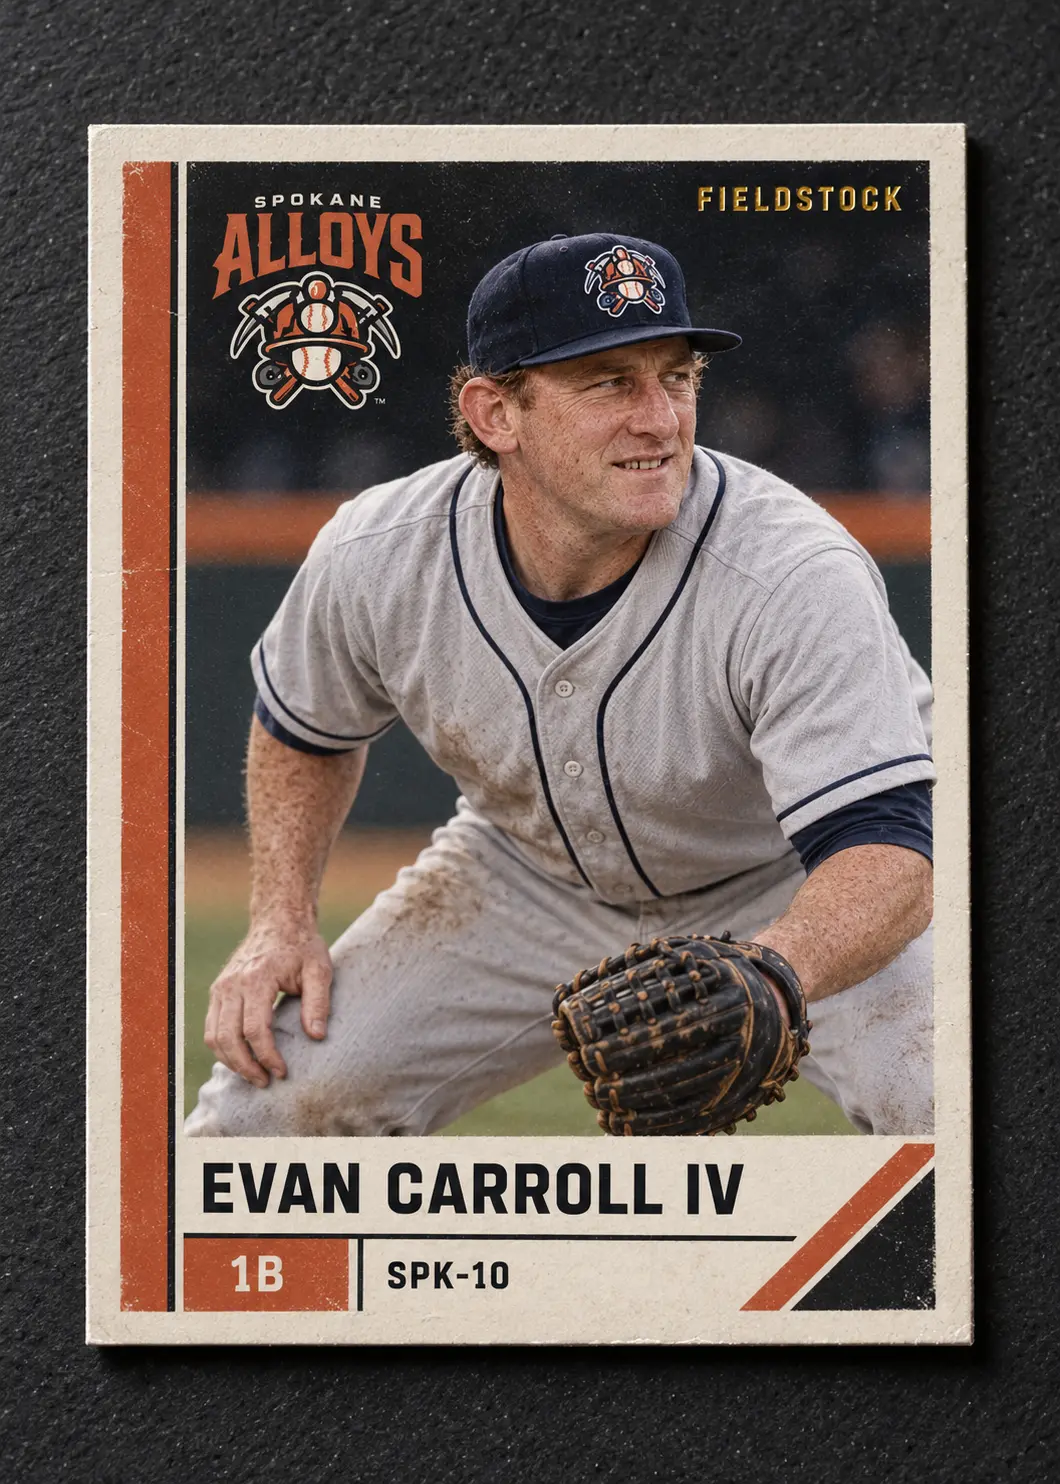
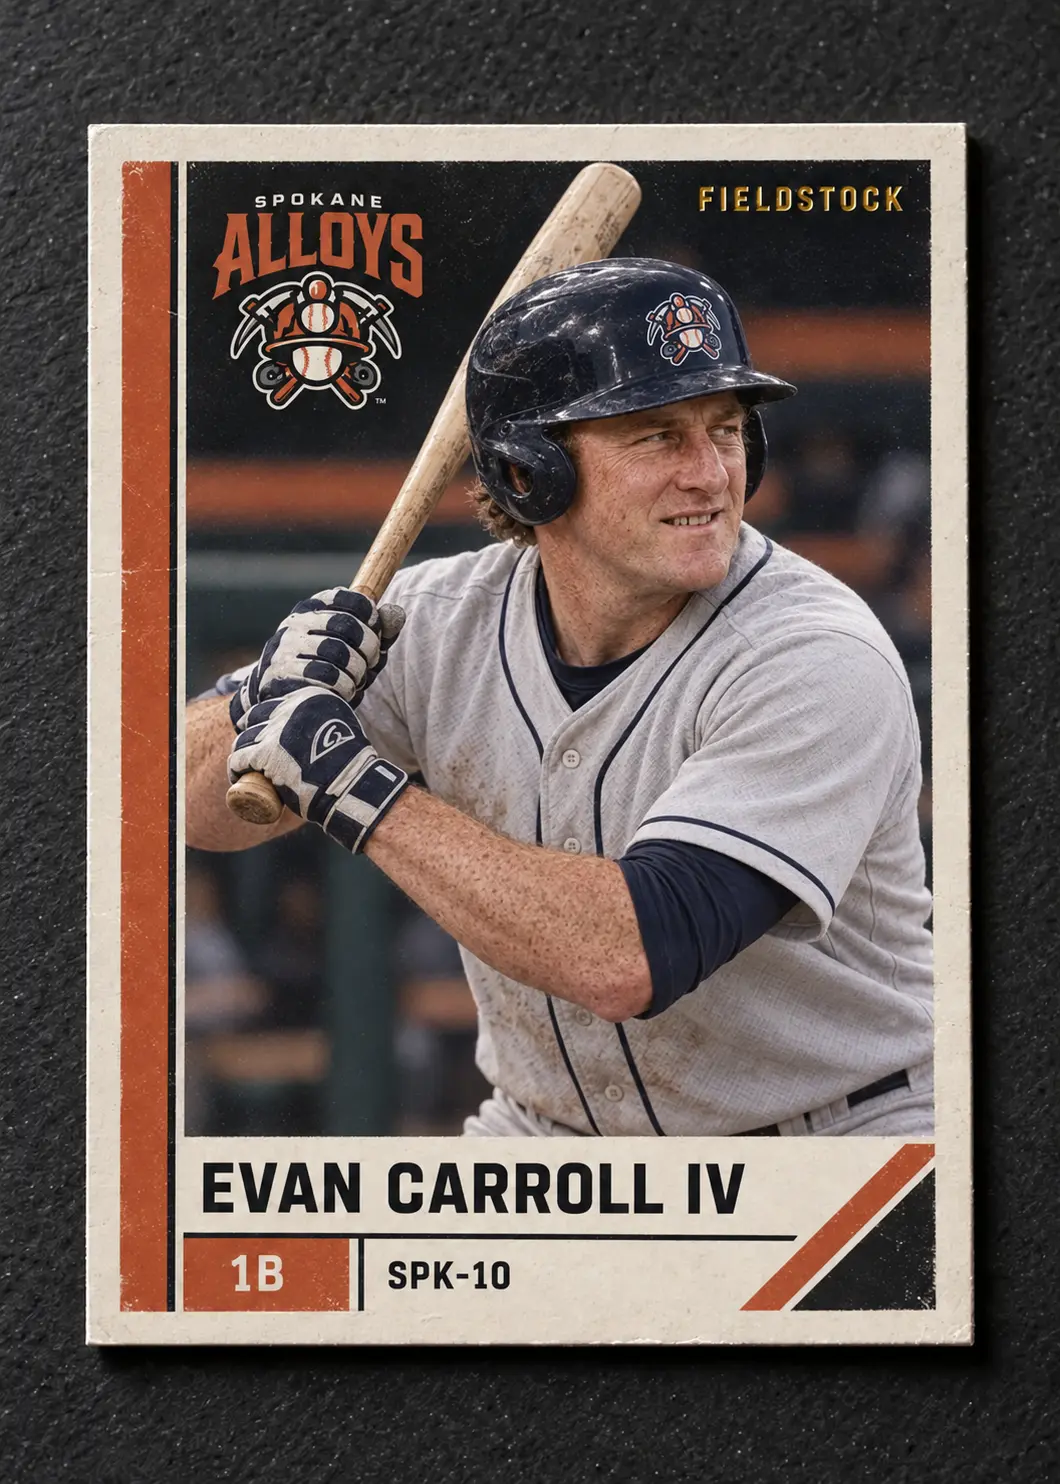
Add Spokane batting cards and 2026 rookies

diff --git a/team-spokane-alloys.html b/team-spokane-alloys.html
@@ -1413,7 +1413,16 @@ const fieldstockCards=[
   {front:"assets/images/cards/fieldstock/spk-13-andres-mireles-front.webp",back:"assets/images/cards/fieldstock/spk-13-andres-mireles-back.webp"},
   {front:"assets/images/cards/fieldstock/spk-14-wyatt-hollander-front.webp",back:"assets/images/cards/fieldstock/spk-14-wyatt-hollander-back.webp"},
   {front:"assets/images/cards/fieldstock/spk-15-luis-quinones-front.webp",back:"assets/images/cards/fieldstock/spk-15-luis-quinones-back.webp"},
-  {front:"assets/images/cards/fieldstock/spk-16-pieter-van-wyk-front.webp",back:"assets/images/cards/fieldstock/spk-16-pieter-van-wyk-back.webp"}
+  {front:"assets/images/cards/fieldstock/spk-16-pieter-van-wyk-front.webp",back:"assets/images/cards/fieldstock/spk-16-pieter-van-wyk-back.webp"},
+  null,
+  null,
+  null,
+  {front:"assets/images/cards/fieldstock/spk-20-dae-hyun-park-front.webp",back:"assets/images/cards/fieldstock/spk-20-dae-hyun-park-back.webp"},
+  null,
+  null,
+  null,
+  null,
+  {front:"assets/images/cards/fieldstock/spk-25-miguel-angel-serrano-front.webp",back:"assets/images/cards/fieldstock/spk-25-miguel-angel-serrano-back.webp"}
 ];
 const playerNotes=[
   "Keeps a small vial of mound dirt from every ballpark where he earns a win. Each is labeled with the final pitch and given to his father after the season.",

diff --git a/player.html b/player.html
@@ -721,7 +721,7 @@ async function loadPlayer(){
   const seasons = await GLBPlayerCards.loadSeasons();
   const record = GLBPlayerCards.careerFor(playerSlug, seasons);
   const cardHost=document.getElementById('playerCard');
-  const SPOKANE_CARD_NUMBERS={"kellan-brynden":1,"oskar-svanholm":2,"mateusz-kasprowicz":3,"diego-alvarez-mora":4,"lukas-havel":5,"caleb-reidman":6,"sergio-ibarra-lugo":7,"yaw-mensah":8,"nikolai-dobrynin":9,"evan-carroll-iv":10,"marco-delvecchio":11,"tomasz-kubas":12,"andres-mireles":13,"wyatt-hollander":14,"luis-quinones":15,"pieter-van-wyk":16};
+  const SPOKANE_CARD_NUMBERS={"kellan-brynden":1,"oskar-svanholm":2,"mateusz-kasprowicz":3,"diego-alvarez-mora":4,"lukas-havel":5,"caleb-reidman":6,"sergio-ibarra-lugo":7,"yaw-mensah":8,"nikolai-dobrynin":9,"evan-carroll-iv":10,"marco-delvecchio":11,"tomasz-kubas":12,"andres-mireles":13,"wyatt-hollander":14,"luis-quinones":15,"pieter-van-wyk":16,"dae-hyun-park":20,"miguel-angel-serrano":25};
   const cardNumber=SPOKANE_CARD_NUMBERS[playerSlug];
   if(teamSlug==='spokane-alloys'&&cardNumber){
     const prefix=`spk-${String(cardNumber).padStart(2,'0')}-${playerSlug}`;
